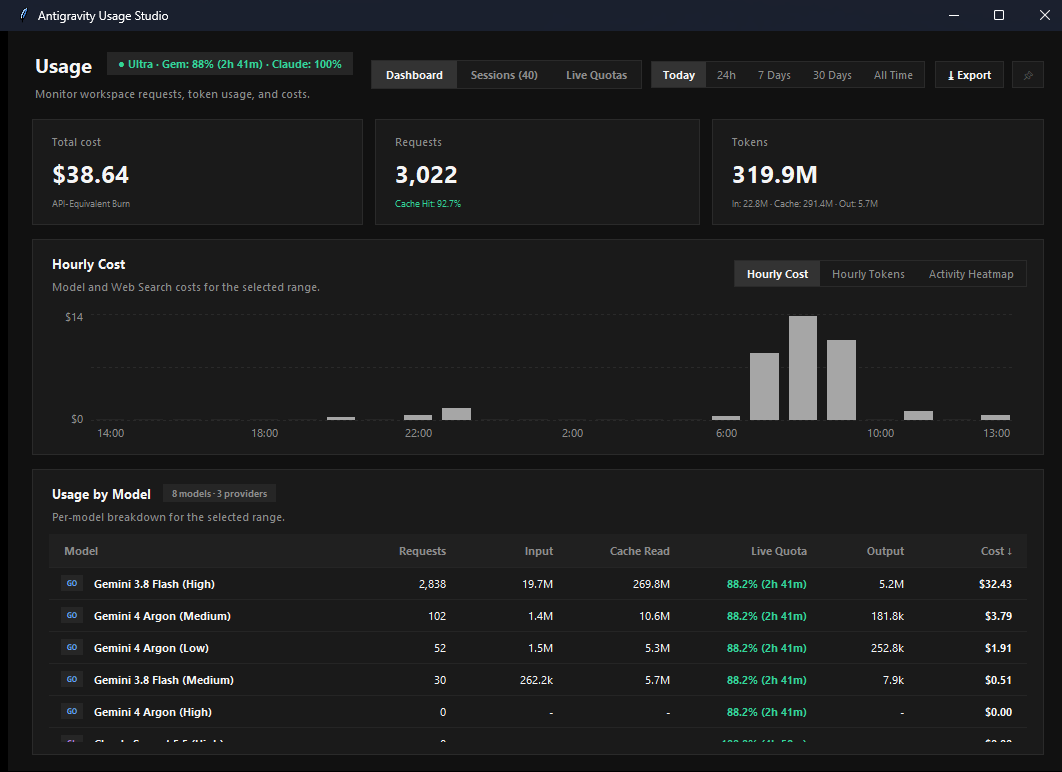
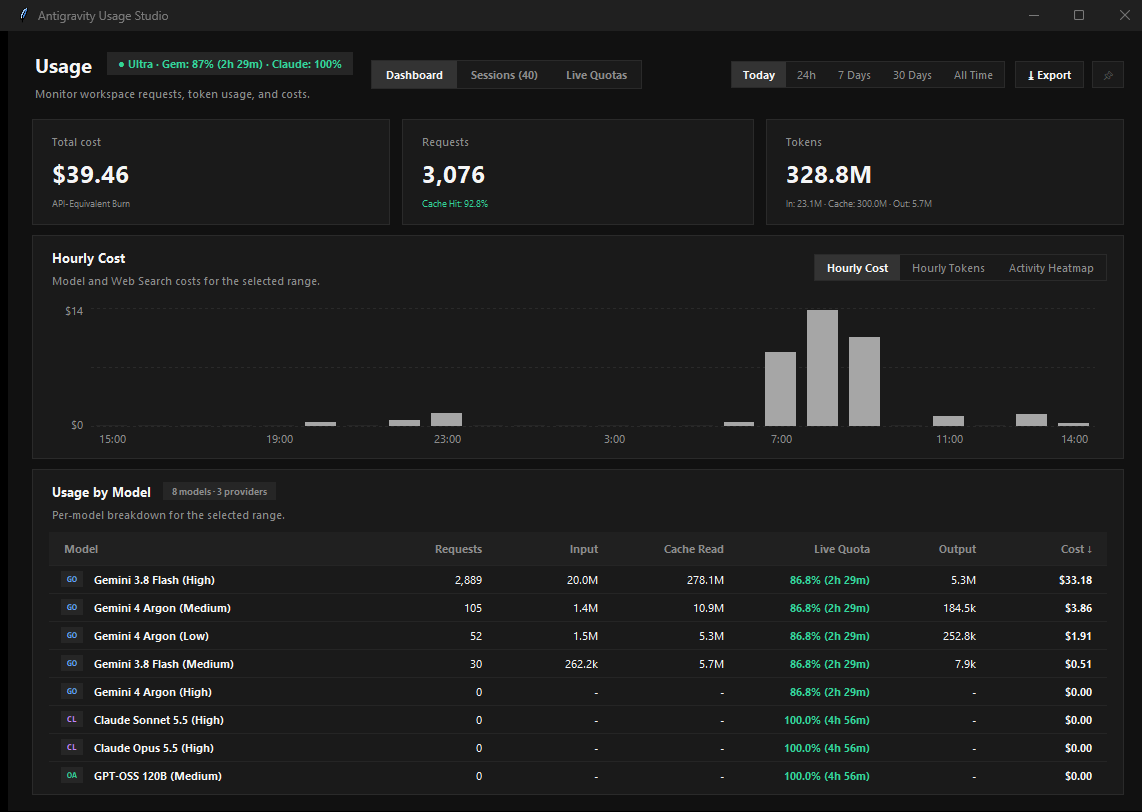
fix: 52-week heatmap rows, table bottom padding, full-width quotas pbar and dark scrollbars

diff --git a/hud_app.py b/hud_app.py
@@ -88,6 +88,27 @@ class DesktopUsageStudio(tk.Tk):
 
         # Window Config - Standard Desktop Window (overrideredirect=False)
         self.title("Antigravity Usage Studio")
+
+        # Dark style for ttk scrollbars
+        self.style = ttk.Style()
+        try:
+            self.style.theme_use("clam")
+            self.style.configure(
+                "Vertical.TScrollbar",
+                gripcount=0,
+                background="#2a2a2a",
+                darkcolor="#1a1a1a",
+                lightcolor="#1a1a1a",
+                troughcolor="#141414",
+                bordercolor="#141414",
+                arrowcolor="#8c8c8c"
+            )
+            self.style.map(
+                "Vertical.TScrollbar",
+                background=[("active", "#3a3a3a"), ("pressed", "#4a4a4a")]
+            )
+        except Exception:
+            pass
         self.overrideredirect(False)
         self.configure(bg=self.C_BG)
 
@@ -117,9 +138,9 @@ class DesktopUsageStudio(tk.Tk):
         screen_w = self.winfo_screenwidth()
         screen_h = self.winfo_screenheight()
         saved_w = self.settings.get("window_w", 1140)
-        saved_h = self.settings.get("window_h", 760)
+        saved_h = self.settings.get("window_h", 780)
         self.win_w = max(940, min(saved_w, screen_w - 60))
-        self.win_h = max(640, min(saved_h, screen_h - 60))
+        self.win_h = max(680, min(saved_h, screen_h - 60))
 
         saved_x = self.settings.get("window_x")
         saved_y = self.settings.get("window_y")
@@ -130,7 +151,7 @@ class DesktopUsageStudio(tk.Tk):
             y = max(20, (screen_h - self.win_h) // 2)
 
         self.geometry(f"{self.win_w}x{self.win_h}+{x}+{y}")
-        self.minsize(880, 620)
+        self.minsize(940, 680)
 
         # Live Data Cache
         self.proc_stats = {"running": False, "memory_mb": 0, "cpu_percent": 0.0, "process_count": 0}
@@ -339,7 +360,7 @@ class DesktopUsageStudio(tk.Tk):
     def setup_dashboard_view(self):
         # 3 KPI Cards Row
         self.kpi_row = tk.Frame(self.view_dashboard, bg=self.C_BG)
-        self.kpi_row.pack(fill=tk.X, pady=(0, 14))
+        self.kpi_row.pack(fill=tk.X, pady=(0, 10))
         self.kpi_row.columnconfigure(0, weight=1, uniform="kpi")
         self.kpi_row.columnconfigure(1, weight=1, uniform="kpi")
         self.kpi_row.columnconfigure(2, weight=1, uniform="kpi")
@@ -374,8 +395,8 @@ class DesktopUsageStudio(tk.Tk):
         # -------------------------------------------------------------
         # CHART CARD (Bar Chart / Heatmap Switcher)
         # -------------------------------------------------------------
-        self.chart_outer = tk.Frame(self.view_dashboard, bg=self.C_CARD, highlightbackground=self.C_BORDER, highlightthickness=1, padx=16, pady=12)
-        self.chart_outer.pack(fill=tk.X, pady=(0, 14))
+        self.chart_outer = tk.Frame(self.view_dashboard, bg=self.C_CARD, highlightbackground=self.C_BORDER, highlightthickness=1, padx=16, pady=10)
+        self.chart_outer.pack(fill=tk.X, pady=(0, 10))
 
         # Chart Header
         self.chart_hdr_frame = tk.Frame(self.chart_outer, bg=self.C_CARD)
@@ -429,7 +450,7 @@ class DesktopUsageStudio(tk.Tk):
 
         # Canvas for Bar Chart & Heatmap
         self.canvas_chart = tk.Canvas(
-            self.chart_outer, height=138, bg=self.C_CARD, highlightthickness=0, cursor="crosshair"
+            self.chart_outer, height=150, bg=self.C_CARD, highlightthickness=0, cursor="crosshair"
         )
         self.canvas_chart.pack(fill=tk.X)
         self.canvas_chart.bind("<Motion>", self.on_chart_canvas_hover)
@@ -438,7 +459,7 @@ class DesktopUsageStudio(tk.Tk):
         # -------------------------------------------------------------
         # USAGE BY MODEL CARD
         # -------------------------------------------------------------
-        self.table_card = tk.Frame(self.view_dashboard, bg=self.C_CARD, highlightbackground=self.C_BORDER, highlightthickness=1, padx=16, pady=12)
+        self.table_card = tk.Frame(self.view_dashboard, bg=self.C_CARD, highlightbackground=self.C_BORDER, highlightthickness=1, padx=16, pady=10)
         self.table_card.pack(fill=tk.BOTH, expand=True)
 
         # Table Header Row
@@ -497,7 +518,7 @@ class DesktopUsageStudio(tk.Tk):
             div = tk.Frame(self.table_card, bg=self.C_DIVIDER, height=1)
             div.pack(fill=tk.X)
 
-            row_f = tk.Frame(self.table_card, bg=self.C_CARD, padx=12, pady=6)
+            row_f = tk.Frame(self.table_card, bg=self.C_CARD, padx=12, pady=4)
             row_f.pack(fill=tk.X)
             self._setup_table_columns(row_f)
 
@@ -634,7 +655,7 @@ class DesktopUsageStudio(tk.Tk):
         self.sess_canvas_container.pack(fill=tk.BOTH, expand=True)
 
         self.sess_canvas = tk.Canvas(self.sess_canvas_container, bg=self.C_CARD, highlightthickness=0)
-        self.sess_scrollbar = ttk.Scrollbar(self.sess_canvas_container, orient="vertical", command=self.sess_canvas.yview)
+        self.sess_scrollbar = ttk.Scrollbar(self.sess_canvas_container, orient="vertical", command=self.sess_canvas.yview, style="Vertical.TScrollbar")
         self.sess_scrollable_frame = tk.Frame(self.sess_canvas, bg=self.C_CARD)
 
         self.sess_scrollable_frame.bind(
@@ -741,7 +762,7 @@ class DesktopUsageStudio(tk.Tk):
         self.quotas_canvas_container.pack(fill=tk.BOTH, expand=True)
 
         self.quotas_canvas = tk.Canvas(self.quotas_canvas_container, bg=self.C_CARD, highlightthickness=0)
-        self.quotas_scrollbar = ttk.Scrollbar(self.quotas_canvas_container, orient="vertical", command=self.quotas_canvas.yview)
+        self.quotas_scrollbar = ttk.Scrollbar(self.quotas_canvas_container, orient="vertical", command=self.quotas_canvas.yview, style="Vertical.TScrollbar")
         self.quotas_scrollable_frame = tk.Frame(self.quotas_canvas, bg=self.C_CARD)
 
         self.quotas_scrollable_frame.bind(
@@ -967,8 +988,8 @@ class DesktopUsageStudio(tk.Tk):
             return
 
         left_pad = 42
-        top_pad = 18
-        bot_pad = 24
+        top_pad = 20
+        bot_pad = 26
         right_pad = 14
 
         # Heatmap Palette (5 Intensity Levels)
@@ -980,28 +1001,36 @@ class DesktopUsageStudio(tk.Tk):
             "#52b788",  # 4: Very High
         ]
 
-        total_cols = len(weeks)
-        col_w = (w - left_pad - right_pad) / max(1, total_cols)
-        cell_size = max(8, min(14, int(col_w - 3)))
-        gap = max(2, int((col_w - cell_size)))
+        total_cols = len(weeks)  # 52 weeks
+        avail_h = h - top_pad - bot_pad
+        avail_w = w - left_pad - right_pad
 
-        # Weekday labels on the left (Mon, Wed, Fri)
+        cell_gap = 3
+        max_cell_h = (avail_h - 6 * cell_gap) // 7
+        step_x = avail_w / max(1, total_cols)
+        max_cell_w = int(step_x - cell_gap)
+
+        cell_size = max(8, min(max_cell_h, max_cell_w, 13))
+
+        # Day labels on the left (Mon, Wed, Fri) aligned with row centers
         day_labels = {0: "Mon", 2: "Wed", 4: "Fri"}
         for r_idx, d_name in day_labels.items():
-            ly = top_pad + r_idx * (cell_size + gap) + cell_size // 2
+            ly = top_pad + r_idx * (cell_size + cell_gap) + cell_size // 2
             c.create_text(left_pad - 8, ly, text=d_name, font=("Segoe UI", 7), fill=self.C_TEXT_MUTED, anchor="e")
 
-        # Draw Cells
+        # Draw Cells & Month Labels
+        last_month_x = -999
         for w_idx, week in enumerate(weeks):
-            cx = left_pad + w_idx * (cell_size + gap)
+            cx = int(left_pad + w_idx * step_x)
 
-            # Month Labels above columns
+            # Month Labels above columns (spaced at least 34px apart)
             m_lbl = week[0].get("month_label") or ""
-            if m_lbl:
+            if m_lbl and (cx - last_month_x >= 34):
                 c.create_text(cx, top_pad - 10, text=m_lbl, font=("Segoe UI", 7, "bold"), fill=self.C_TEXT_MUTED, anchor="w")
+                last_month_x = cx
 
             for r_idx, day_obj in enumerate(week):
-                cy = top_pad + r_idx * (cell_size + gap)
+                cy = top_pad + r_idx * (cell_size + cell_gap)
 
                 is_fut = day_obj.get("is_future", False)
                 is_tod = day_obj.get("is_today", False)
@@ -1045,7 +1074,7 @@ class DesktopUsageStudio(tk.Tk):
             )
         else:
             self.lbl_chart_sub.config(
-                text="22-week contribution grid with active streak and daily token intensity.",
+                text="52-week contribution grid with active streak and daily token intensity.",
                 fg=self.C_TEXT_MUTED
             )
 
@@ -1274,12 +1303,16 @@ class DesktopUsageStudio(tk.Tk):
                 lbl_pct = tk.Label(top_r, text=f"{rem:.1f}%", font=("Segoe UI", 11, "bold"), fg=q_col, bg=self.C_CARD_HEADER)
                 lbl_pct.pack(side=tk.RIGHT)
 
-                # Progress Bar
-                pbar_canvas = tk.Canvas(card, height=6, bg="#2a2a2a", highlightthickness=0)
+                # Progress Bar with dynamic resize tracking
+                pbar_canvas = tk.Canvas(card, height=6, bg="#242424", highlightthickness=0)
                 pbar_canvas.pack(fill=tk.X, pady=(8, 6))
-                pw = max(180, card.winfo_width() - 28)
-                bar_len = int((rem / 100.0) * pw)
-                pbar_canvas.create_rectangle(0, 0, bar_len, 6, fill=q_col, outline="")
+
+                def _draw_pbar(ev, c=pbar_canvas, pct=rem, col=q_col):
+                    c.delete("all")
+                    bar_w = int((pct / 100.0) * ev.width)
+                    c.create_rectangle(0, 0, bar_w, 6, fill=col, outline="")
+
+                pbar_canvas.bind("<Configure>", _draw_pbar)
 
                 # Bottom Info (Reset timer + model id)
                 bot_r = tk.Frame(card, bg=self.C_CARD_HEADER)

diff --git a/collector.py b/collector.py
@@ -26,7 +26,7 @@ DEFAULT_SETTINGS = {
     "chart_mode": "cost",              # 'cost', 'tokens', 'heatmap'
     "is_pinned": False,
     "window_w": 1140,
-    "window_h": 760,
+    "window_h": 780,
     "window_x": None,
     "window_y": None,
 }
@@ -675,9 +675,9 @@ class AntigravityDataCollector:
         cache_denom = total_input + total_cache
         cache_hit_pct = round((total_cache / cache_denom * 100.0), 1) if cache_denom > 0 else 0.0
 
-        # Build 22-week Contribution Heatmap Grid
+        # Build 52-week Contribution Heatmap Grid (Full Year)
         current_week_monday = today_date - timedelta(days=today_date.weekday())
-        heatmap_start_date = current_week_monday - timedelta(weeks=21)
+        heatmap_start_date = current_week_monday - timedelta(weeks=51)
 
         heatmap_weeks = []
         grid_total_tokens = 0
@@ -686,7 +686,7 @@ class AntigravityDataCollector:
         max_daily_tok = 0
 
         # Determine max daily tokens for relative scaling
-        for w_i in range(22):
+        for w_i in range(52):
             w_start = heatmap_start_date + timedelta(weeks=w_i)
             for d_i in range(7):
                 cur_d = w_start + timedelta(days=d_i)
@@ -696,7 +696,7 @@ class AntigravityDataCollector:
                     if d_info["tokens"] > max_daily_tok:
                         max_daily_tok = d_info["tokens"]
 
-        for w_i in range(22):
+        for w_i in range(52):
             week_days = []
             w_start = heatmap_start_date + timedelta(weeks=w_i)
             for d_i in range(7):
